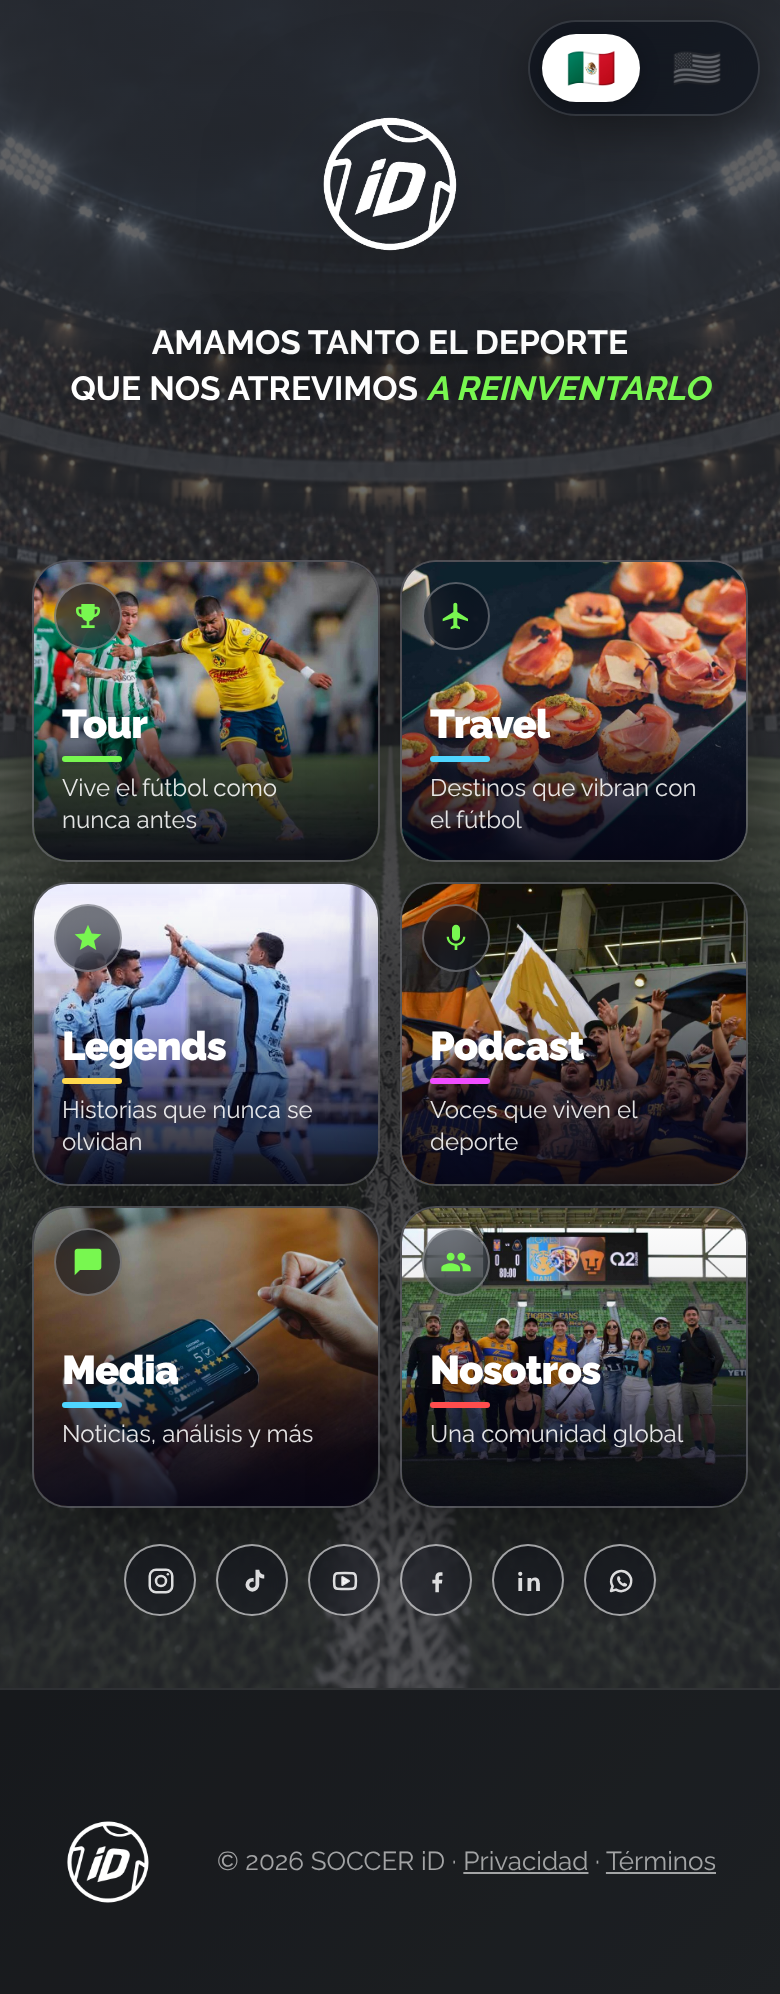
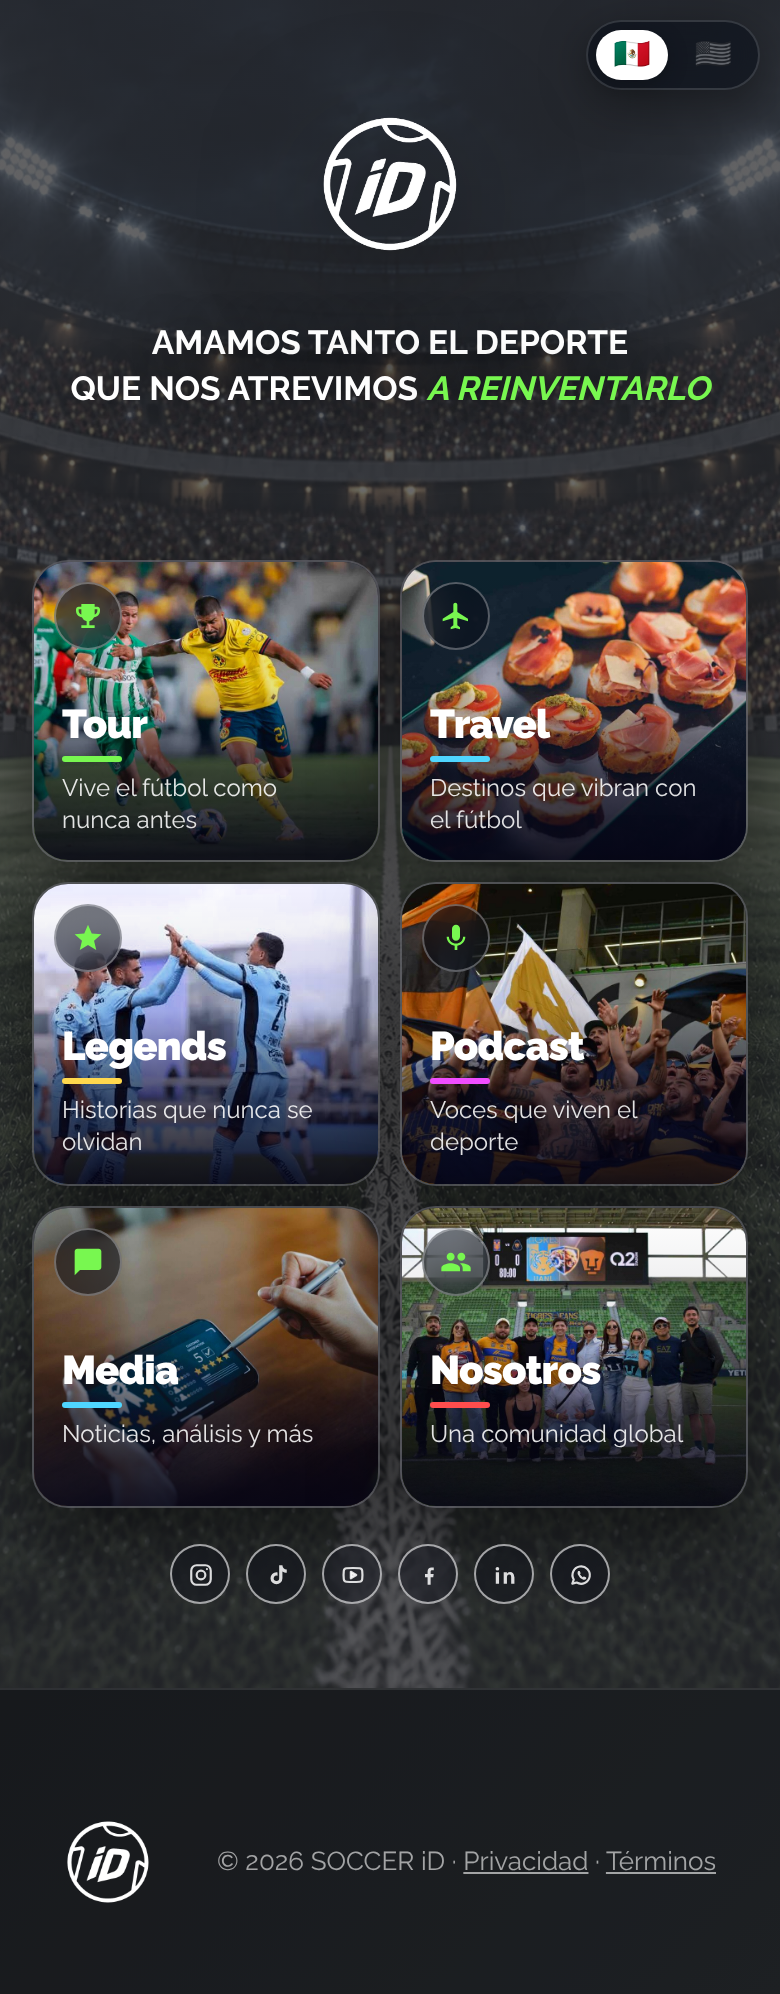
Inicio: en celular, selector de idioma y redes más chicos
Claude-Session: https://claude.ai/code/session_01TBS5J98YBvjYTTdc9XtUtE

Changed region(s): [[0.1538, 0.7773, 0.8308, 0.8084], [0.6769, 0.0, 0.9538, 0.0622]]

diff --git a/assets/css/inicio.css b/assets/css/inicio.css
@@ -21,7 +21,12 @@ body .lang-btn { padding: 8px 16px; border-radius: 999px; color: rgba(255,255,25
 body .lang-btn:hover { background: rgba(255,255,255,0.08); color: rgba(255,255,255,0.85); }
 body .lang-btn.active { background: #fff; color: #0b1020; box-shadow: 0 2px 10px rgba(0,0,0,0.25); }
 body .lang-btn:not(.active) .lang-flag { filter: grayscale(1) opacity(0.6); }
-@media (max-width: 768px) { body .lang-btn { padding: 7px 12px; } }
+/* En celular, más chico: banderas de 15 px y píldora compacta. */
+@media (max-width: 768px) {
+  body .language-selector { padding: 4px; }
+  body .lang-btn { padding: 5px 9px; }
+  body .lang-flag { font-size: 15px; }
+}
 
 /* ─── Hero: el home es el menú ────────────────────────────────────── */
 /* En escritorio el contenido del hero sube (isotipo + lema arriba) y las
@@ -143,9 +148,9 @@ body .lang-btn:not(.active) .lang-flag { filter: grayscale(1) opacity(0.6); }
   .puerta__icono { width: 34px; height: 34px; top: 10px; left: 10px; }
   .puerta__icono svg { width: 16px; height: 16px; }
   .redes-v2 { height: 90px; margin-top: 0; padding: 18px 16px 0; }
-  .redes-v2__grid { gap: 10px; }
-  .redes-v2__chip { width: 36px; height: 36px; }
-  .redes-v2__chip svg { width: 15px; height: 15px; }
+  .redes-v2__grid { gap: 8px; }
+  .redes-v2__chip { width: 30px; height: 30px; border-width: 1px; }
+  .redes-v2__chip svg { width: 13px; height: 13px; }
   /* El lateral se comporta como en la original: aparece al bajar. */
   .dot-nav--inicio { display: flex; }
 }
